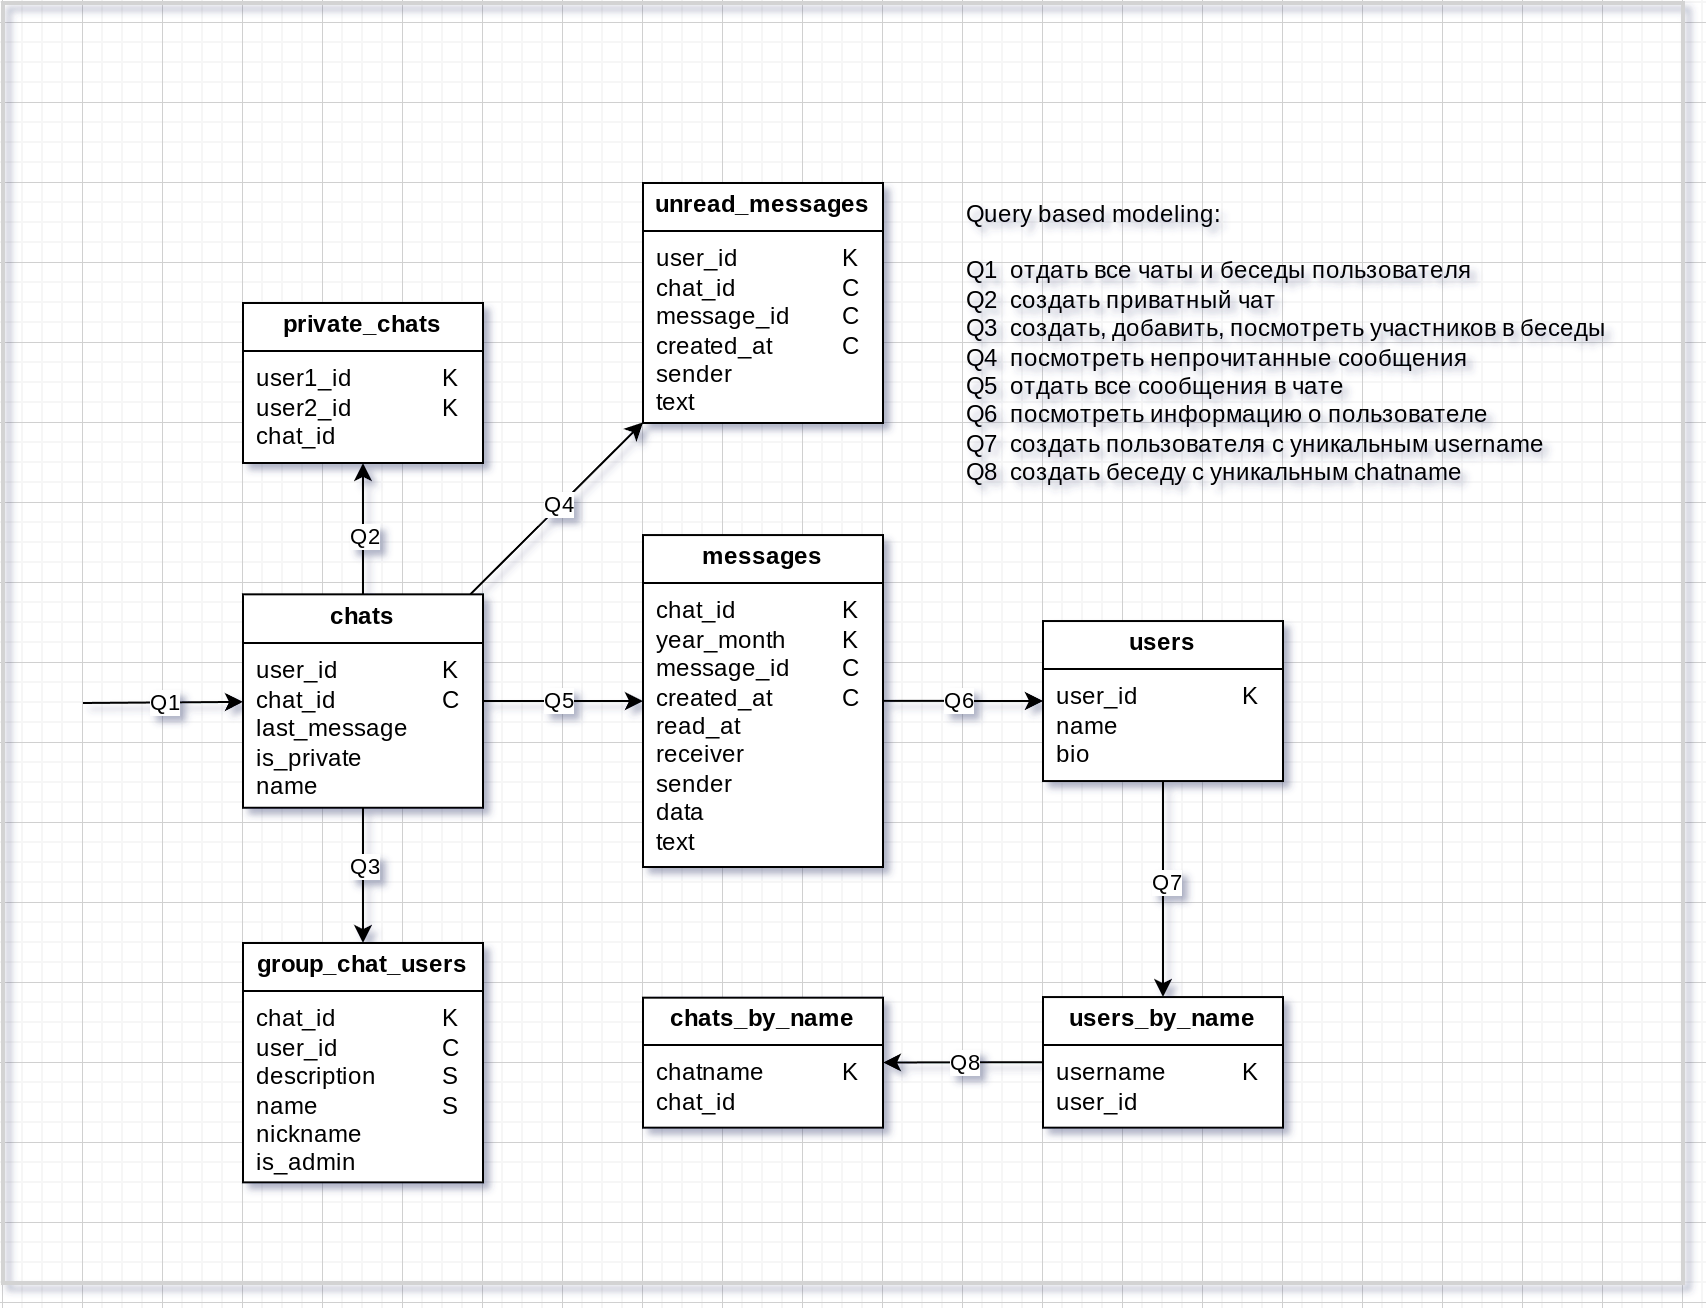
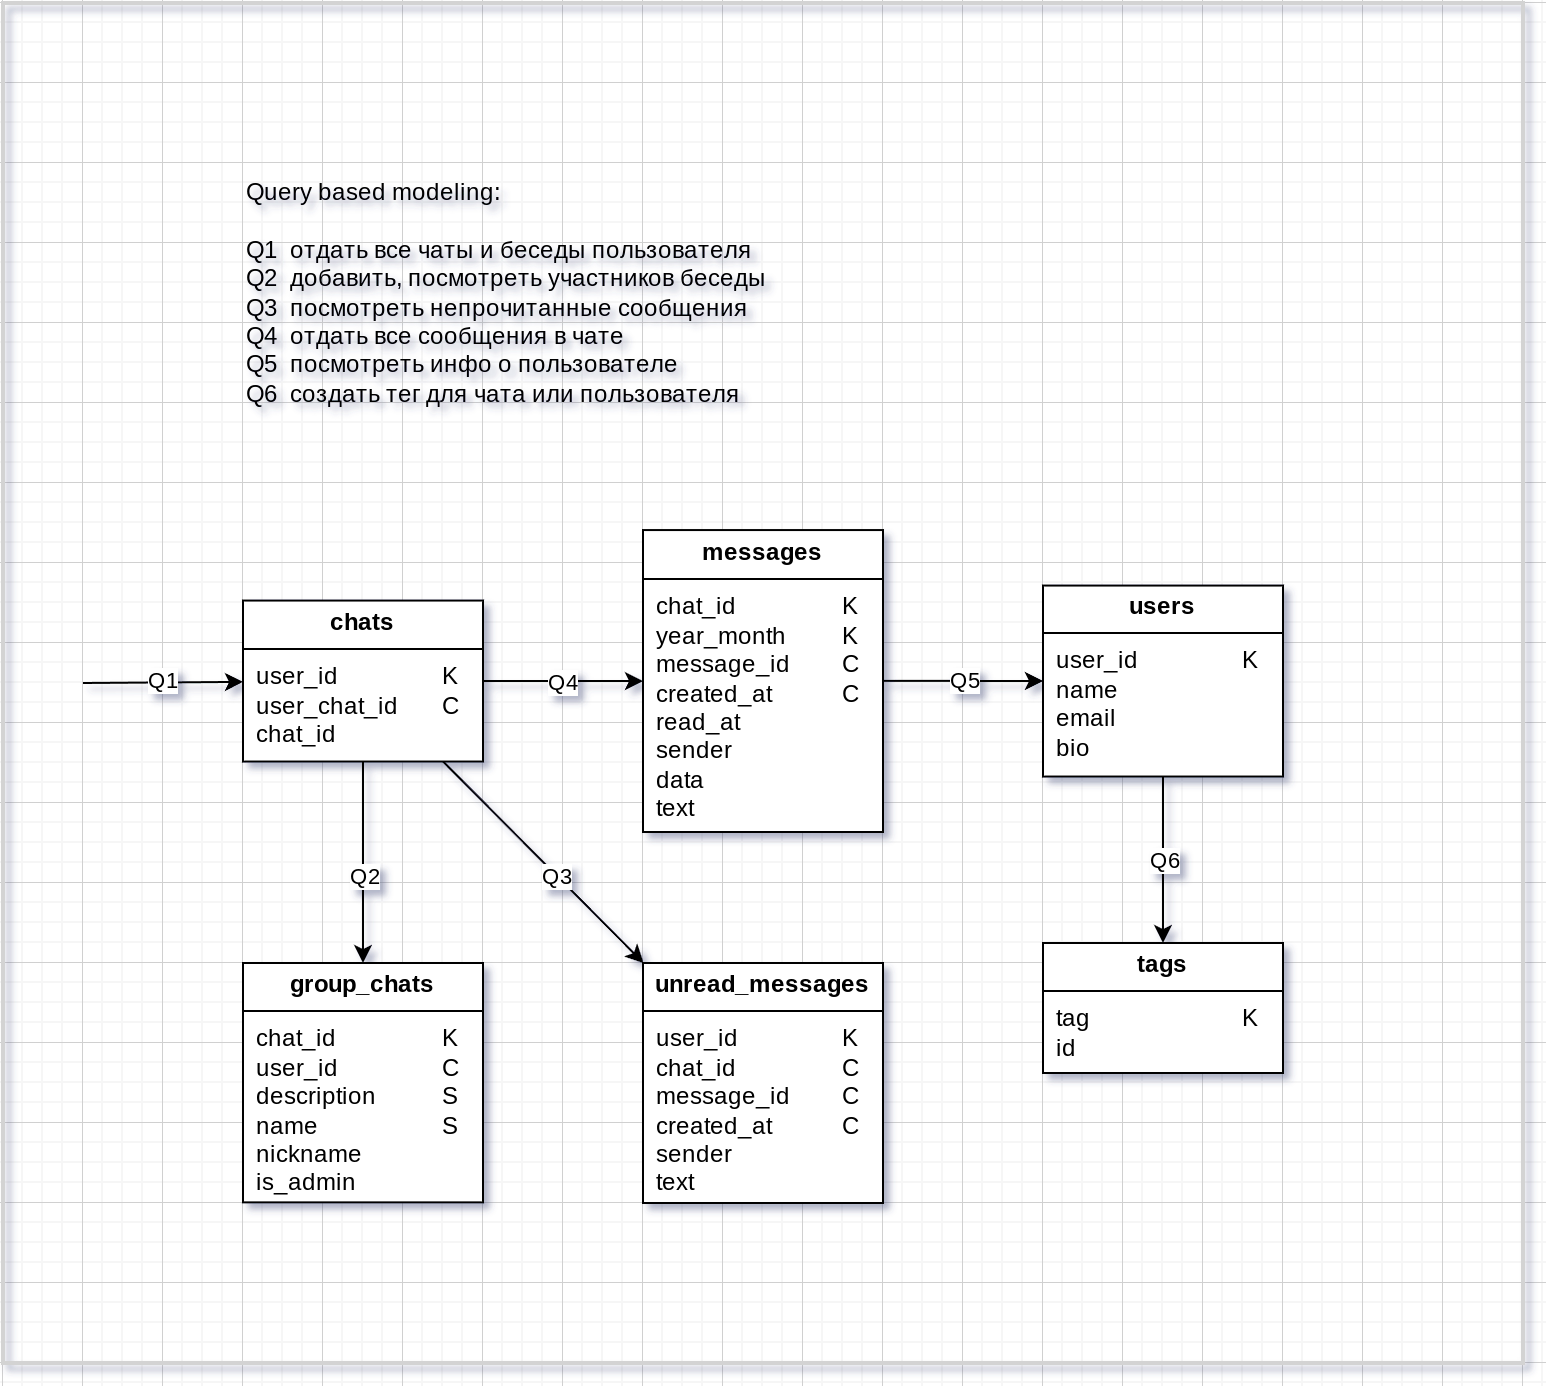
docs: update schema, remove unused tables fix some consistency problems by using cache

diff --git a/docs/db/README.md b/docs/db/README.md
@@ -1,33 +1,20 @@
 # Архитекутра
 
-Архитектурные решения и ход мыслей при проектировании схемы nosql базы данных для мессенджера:
+Для хранения данных используются cassandra и valkey
 
 ![model](https://github.com/iqumi/y/blob/main/docs/db/database-model.png)
 
-Таблица `chats` хранит и приватные и групповые чаты, ее поля:
-- `user_id` поле для выборки чатов пользователя, в программе мы получаем его сразу после авторизации пользователя или когда клиент нам отдает его после установления соединения по WebSockets;
-- `chat_id` должен быть как и у приватного чата так и у группового, так как если рассматривать чат как отношение двух пользователей, то чтобы получать все сообщения нужны будут два запроса на выборку;
-- `name` имя беседы или второго пользователя для отображения. Если запрашивать имя у таблицы `users` каждый раз для каждого чата, соблюдая data consistency выйдет слишком много запросов к бд `O(1*n)`, где n количество чатов пользователя;
-    - Если пользователь и меняет имя в таблице `users`, то следом мы меняем его и в `chats`. Для больших груп можно в in memory cache изменения заносить и от туда брать, а потом уже исправлять в базе, так нагрузка меньше на ноду;
+Таблица `chats` хранит и приватные и групповые чаты. Поле `user_chat_id` в зависимости от типа чата хранит либо `chat_id` либо `user_id`. Для последующего их отображения необходимо получать так же имя собеседника/чата и его последнее сообщение. Так как это часто изменяющаяся информация эти два поля вынесены в кеш:
 
-Пример таблицы `chats`:
+| names         | 
+| ------------- |
+| user_chat_id  |
+| name          |
 
-| user_id | chat_id | last_message | name     | type    |
-| ------- | ------- | ------------ | -------- | ------- |
-| 2       | 1       | Vova: hi     | Vova     | private |
-| 1       | 1       | Vova: hi     | Seriy    | private |
-| 1       | 2       | Max: help    | C++ Club | group   |
-
-
-## Согласованность данных
-
-Задача согласования данных лежит на программе, использующей бд. В отрыве от нее, вот те поля которые необходимо обновлять:
-
-| если меняется         | надо изменить      |
-| --------------------- | ------------------ |
-| message.text          | chats.last_message |
-| group_chat_users.name | chats.name         |
-| users.name            | chats.name         |
+| last_messages |
+| ------------- |
+| chat_id       |
+| message       |
 
 
 ## Аналитика
@@ -48,52 +35,32 @@
 - 742 000 000 сообщений
     - 10 000 сообщений в одной беседе
     - 100 сообщений в одном приватном чате
-
+        - 202 сообщения в месяц
+        
 В итоге по таблицам имеем следующее количество ячеек в одном разделе и занимаемое место таблиц на диске с учетом требований:
 
-| таблица          | Nv     | S of 1 partition | S of cluster |
-| ---------------- | ------ | ---------------- | ------------ |
-| users            | 1      | 408 bytes        | 17.14 MB     | 
-| users_by_name    | 1      | 152 bytes        | 6.38 MB      |
-| chats_by_name    | 1      | 152 bytes        | 10.64 MB     |
-| private_chats    | 1      | 56 bytes         | 23.56 MB     | 
-| group_chat_users | 62     | 1694 bytes       | 118,58 MB    |
-| messages         | 50 500 | 42.74 MB         | 3.14 TB      | 
-| chats            | 160    | 5196 bytes       | 218.23 MB    |
+| таблица     | Nv  | S of 1 partition | S of cluster |
+| ----------- | --- | ---------------- | ------------ |
+| tags        | 1   | 152 bytes        | 17.02 MB     |
+| users       | 3   | 744 bytes        | 31.25 MB     | 
+| chats       | 60  | 2416 bytes       | 101.47 MB    |
+| group_chats | 62  | 1694 bytes       | 118.58 MB    |
+| messages    | 808 | 0.85 MB          | 20.82 TB     | 
 
-Следует так же учесть репликацию в будущем.
-
-
-#### Пример подсчета
-
-Интересующимся, прошу проверять информацию самим. Для таблицы messages советую считать отдельно записи для приватных и бесед. Пример подсчета для таблицы chats: 
-
-Nr = 60 чатов / 1 пользователя = 60 записей в разделе
-Nv = 16+60*(5-2-0)+0 = 160 ячеек
-S = 16+60*(32+32+1)+160*8 = 5196 bytes 
-S of cluster = 5196 * 42 000
-
-Подробнее см в книге. 
+Следует так же учесть репликацию в будущем
 
 
 ##### Используемые величины в байтах
 
-- 64 для group_chat_users.name
-- 16 для group_chat_users.nickname
-- 128 для group_chat_users.description
-- 32 для chats.name and chats.last_message
-- 128 для username and chatname
+- 64 для group_chats.name
+- 16 для group_chats.nickname
+- 128 для group_chats.description
+- 128 для tags.tag
 - 128 для users.name
+- 320 для users.email
 - 256 для users.bio
 - 4096 для messages.text
 - 32 для messages.data
-
-
-## Размышления 
-
-- При каждом новом сообщении в `messages` необходимо менять `chats.last_message`, та же история и с другими полями этой таблицы. Решением может являться in memory cache, тогда `chats.last_message` можно брать из кеша и менять его там же. Тогда таблица `chats` будет переноситься в кеш 100%
-
-- Если это групповой чат с n пользователями то после изменения имени в таблице `chats.name` надо менять имя чата для n пользователей. То же самое с `last_message`. Хотя с кэшем наверное ок будет
 
 
 ## Ссылки
